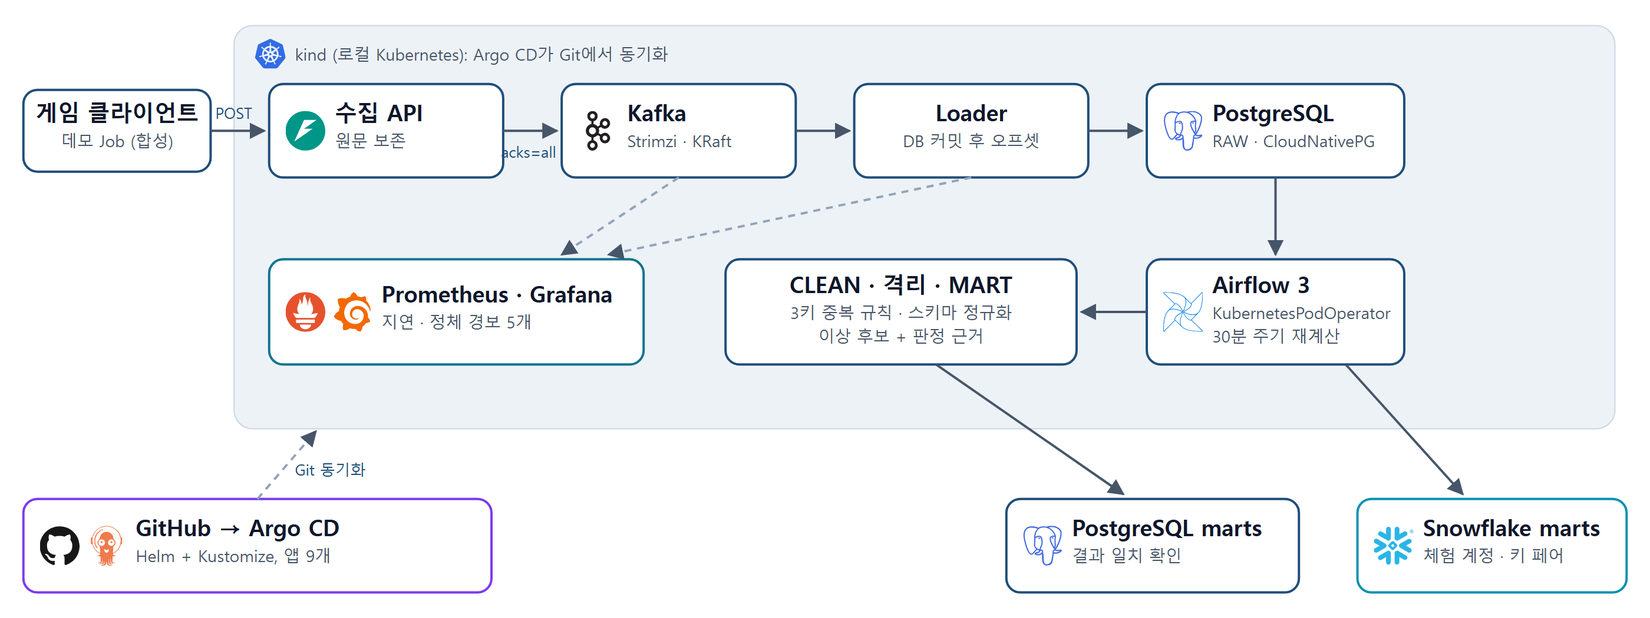
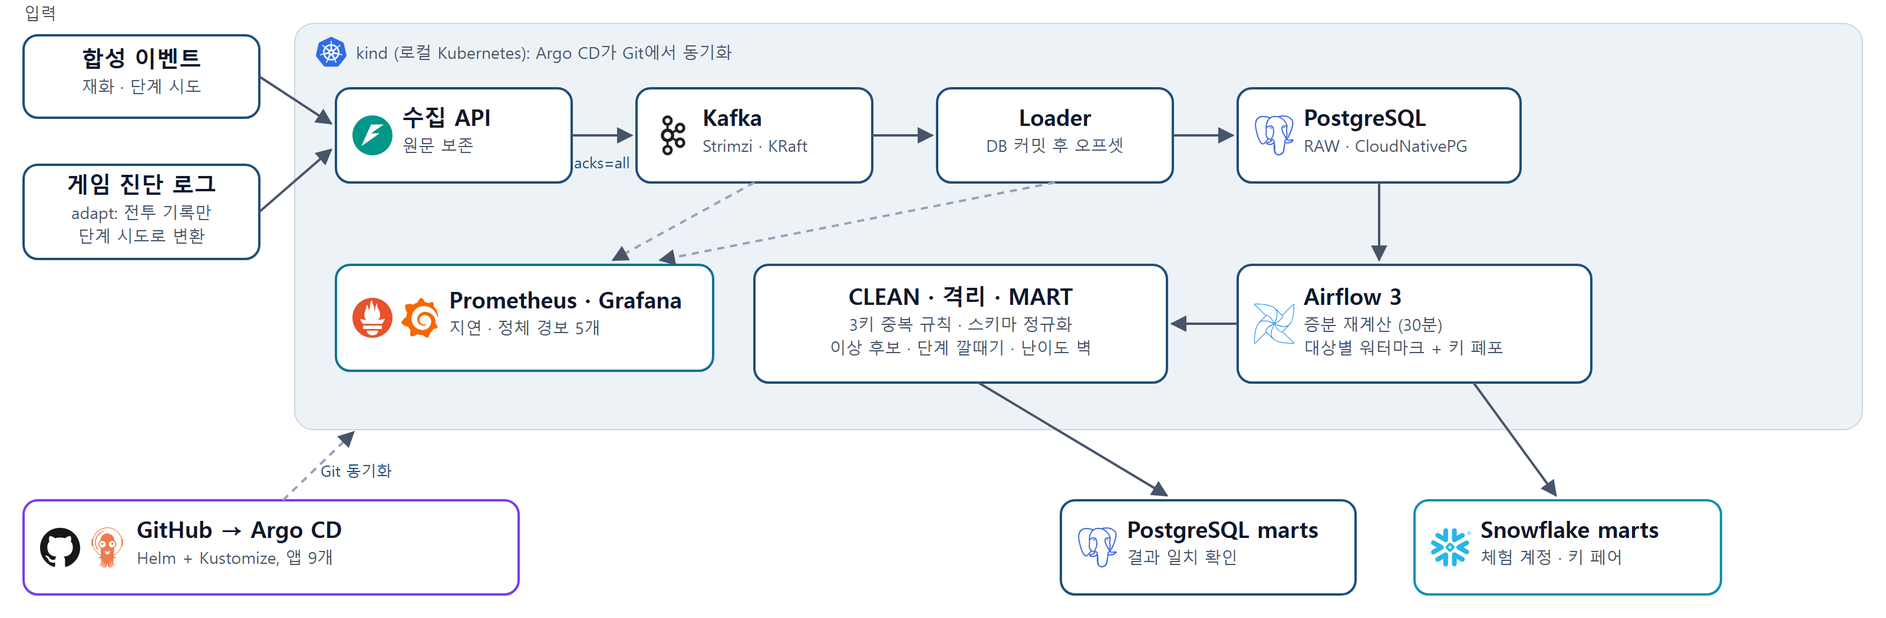
Polish docs wording, refresh README visuals and architecture diagram

diff --git a/docs/kubernetes.md b/docs/kubernetes.md
@@ -1,6 +1,6 @@
 # Kubernetes 배포 (v0.2.0)
 
-v0.1.0의 검증·중복 제거 규칙(`game_log_pipeline/pipeline.py`)은 그대로 두고, 앞뒤를 쿠버네티스 서비스로 감쌌습니다. 로컬 kind 클러스터에서 end-to-end로 실행해 확인했고, EKS는 같은 차트·오버레이의 설정만 준비했습니다(생성하지 않음).
+v0.1.0의 검증·중복 제거 규칙(`game_log_pipeline/pipeline.py`)은 그대로 두고 앞뒤를 쿠버네티스 서비스로 감쌌습니다. 로컬 kind 클러스터에서 end-to-end로 실행해 확인했습니다. EKS는 같은 차트·오버레이의 설정만 준비했습니다(생성하지 않음).
 
 ## 구조
 
@@ -28,7 +28,7 @@ flowchart LR
 | 클러스터 | kind(로컬, WSL2) / EKS 설정만 | Kubernetes 1.37 |
 | 배포 | Argo CD app-of-apps, sync wave(-2 운영자 → -1 플랫폼 → 0 앱 → 1 Airflow) | Argo CD 3.5.3 (chart 10.9.2) |
 | 앱 | Helm 차트 `deploy/charts/game-log-pipeline` (values-local / values-eks) | 0.2.0 |
-| 플랫폼 CR | Kustomize base + overlays(local / eks) | — |
+| 플랫폼 CR | Kustomize base + overlays(local / eks) | - |
 | Kafka | Strimzi 운영자, KRaft, v1 API | Strimzi 1.2.0, Kafka 4.2.0 |
 | PostgreSQL | CloudNativePG 운영자 | 1.30.1 (chart 0.29.1) |
 | 오케스트레이션 | Airflow 공식 차트, LocalExecutor + KubernetesPodOperator, DAG는 git-sync | Airflow 3.2.2 (chart 1.22.0) |
@@ -63,13 +63,13 @@ bash infra/local/bootstrap.sh
 ## 확인한 결과(2026-09-28, kind)
 
 - 데모 트래픽 Job이 합성 fixture 10건 전송 → `{"accepted":10}` → loader `{"loaded": 10}` → rebuild `{"raw": 10, "clean": 6, "quarantine": 3}`.
-- PostgreSQL marts의 이상 후보: `offline_policy_exceeded:p_excess`, `duplicate_reward_claim:p_repeat` — v0.1.0 SQLite 기준 구현과 같다.
+- PostgreSQL marts의 이상 후보는 `offline_policy_exceeded:p_excess`, `duplicate_reward_claim:p_repeat`로 v0.1.0 SQLite 기준 구현과 같습니다.
 - 같은 묶음을 한 번 더 보내면 RAW 20, CLEAN 6, 이상 후보 2 유지(격리는 수신 단위라 3→6).
 - eks 오버레이와 values-eks 렌더링은 서버 dry-run 통과.
-- GitOps 전체 재구성(클러스터 삭제 → `bootstrap.sh`): Argo CD 앱 7개(root, strimzi, cloudnative-pg, kafka, postgres, game-log-pipeline, airflow)가 모두 Synced/Healthy. 데모 트래픽 → loader → PostgreSQL 결과는 위와 같다.
-- Airflow `glp_rebuild` DAG: 예약 실행과 수동 실행 모두 success. KubernetesPodOperator가 `rebuild_marts` 파드를 띄워 재계산한다.
+- GitOps 전체 재구성(클러스터 삭제 → `bootstrap.sh`): Argo CD 앱 7개(root, strimzi, cloudnative-pg, kafka, postgres, game-log-pipeline, airflow)가 모두 Synced/Healthy. 데모 트래픽 → loader → PostgreSQL 결과는 위와 같습니다.
+- Airflow `glp_rebuild` DAG: 예약 실행과 수동 실행 모두 success. KubernetesPodOperator가 `rebuild_marts` 파드를 띄워 재계산합니다.
 - 0.3.0 모니터링(2026-09-29, kind): Argo CD 앱 9개(monitoring, monitoring-config 추가) 모두 Synced/Healthy. Prometheus 대상 `glp-ingest`·`glp-loader`·`glp-kafka-exporter` 모두 up. 데모 묶음 전송 뒤 `glp_ingest_events_total{result="accepted"}`와 `glp_loader_rows_total`이 같은 값(20)으로 증가, `kafka_consumergroup_lag` 파티션 0~2 모두 0. 경보 5개 로드(inactive), 대시보드 ConfigMap 적용. Airflow OutOfSync 해소.
-- 시작 순서: loader가 PostgreSQL보다 먼저 뜨면 연결 거부로 재시작하고 DB가 준비되면 복구된다(재시작 정책에 맡김).
+- 시작 순서: loader가 PostgreSQL보다 먼저 뜨면 연결 거부로 재시작하고 DB가 준비되면 복구됩니다(재시작 정책에 맡김).
 
 ## 로컬 환경 문제와 해결
 
@@ -89,20 +89,20 @@ bash infra/local/bootstrap.sh
 | `kafka_consumergroup_lag` | Strimzi Kafka Exporter | `glp-loader` 그룹의 파티션별 지연 |
 | `kube_pod_status_phase` | kube-state-metrics | Airflow가 띄운 `glp-rebuild` 파드 실패 |
 
-경보(`deploy/platform/monitoring/base/rules.yaml`): 지연 100건 초과 5분, 지연이 있는데 10분간 커밋 없음(로더 정체), 로더 대상 없음, Kafka 미확인 전송, 재계산 파드 실패. 임계치는 데모 값이다. 스크레이프 대상(PodMonitor)·경보·대시보드가 모두 Git에 있고 Argo CD가 동기화한다.
+경보(`deploy/platform/monitoring/base/rules.yaml`): 지연 100건 초과 5분, 지연이 있는데 10분간 커밋 없음(로더 정체), 로더 대상 없음, Kafka 미확인 전송, 재계산 파드 실패. 임계치는 데모 값입니다. 스크레이프 대상(PodMonitor)·경보·대시보드가 모두 Git에 있고 Argo CD가 동기화합니다.
 
 ## 스키마 진화 (0.3.0)
 
-생산자(게임 클라이언트)는 한꺼번에 업그레이드되지 않으므로 여러 스키마 버전이 동시에 들어온다. 재계산은 각 버전을 v1 업무 형태로 정규화한 뒤 같은 규칙을 적용한다. 지원하지 않는 버전과 계약 위반은 사유를 남겨 격리하고, 같은 이벤트가 다른 버전으로 재전송되면 충돌로 보지 않는다. 버전 분포는 보고서의 `schema_versions`로 확인한다.
+생산자(게임 클라이언트)는 한꺼번에 업그레이드되지 않으므로 여러 스키마 버전이 동시에 들어옵니다. 재계산은 각 버전을 v1 업무 형태로 정규화한 뒤 같은 규칙을 적용합니다. 지원하지 않는 버전과 계약 위반은 사유를 남겨 격리합니다. 같은 이벤트가 다른 버전으로 재전송되면 충돌로 보지 않습니다. 버전 분포는 보고서의 `schema_versions`로 확인합니다.
 
 ## 증분 재계산 (0.4.0)
 
-1. 로더가 RAW를 저장할 때 `event_key`·`txn_key`를 함께 기록한다.
-2. 재계산은 대상마다 `pipeline_state.raw_watermark` 이후 RAW만 읽는다.
-3. 새 행과 같은 event_id의 모든 전송, 같은 거래 키의 모든 이벤트를 더 늘어나지 않을 때까지 모은다(폐포).
-4. 그 범위만 기존 규칙으로 계산해 해당 이벤트·전송 행을 교체하고 워터마크를 옮긴다(한 트랜잭션).
+1. 로더가 RAW를 저장할 때 `event_key`·`txn_key`를 함께 기록합니다.
+2. 재계산은 대상마다 `pipeline_state.raw_watermark` 이후 RAW만 읽습니다.
+3. 새 행과 event_id가 같은 모든 전송, 거래 키가 같은 모든 이벤트를 더 늘어나지 않을 때까지 모읍니다(폐포).
+4. 그 범위만 기존 규칙으로 계산해 해당 이벤트·전송 행을 교체하고 워터마크를 옮깁니다(한 트랜잭션).
 
-워터마크가 없는 대상은 전체 재계산으로 시작한다.
+워터마크가 없는 대상은 전체 재계산으로 시작합니다.
 
 확인(2026-09-29, kind + Snowflake 체험 계정, Airflow `glp_rebuild`):
 
@@ -112,23 +112,23 @@ bash infra/local/bootstrap.sh
 | 2. 같은 fixture 재전송 10건 뒤 | incremental, 새 RAW 10 → 재계산 50(모두 같은 키), clean 6, 격리 15 | 같음 |
 | 3. 새 이벤트 1건 뒤 | incremental, 새 RAW 1 → 재계산 1, clean 7 | 같음 |
 
-재전송은 기존 전송과 키가 같아 폐포가 커지고, 새 이벤트는 그 한 행만 다시 계산한다. 규칙을 바꾼 뒤에는 Airflow에서 conf `{"mode": "full"}`로 실행한다.
+재전송은 기존 전송과 키가 같아서 폐포가 커집니다. 새 이벤트는 그 한 행만 다시 계산합니다. 규칙을 바꾼 뒤에는 Airflow에서 conf `{"mode": "full"}`로 실행합니다.
 
 ## 단계 시도 입력 (0.5.0)
 
-게임이 커지면 재화 외에 진행 로그가 필요합니다. `stage_attempt`는 같은 토픽·RAW 테이블로 들어오고, 재계산에서 이벤트 유형별로 나뉩니다.
+게임이 커지면 재화 외에 진행 로그가 필요합니다. `stage_attempt`는 같은 토픽·RAW 테이블로 들어오고 재계산에서 이벤트 유형별로 나뉩니다.
 
 - 계약: `track`(story/endless), `stage`(1~10000), `outcome`(clear/fail), `duration_ms`. 허용 필드 밖의 값, 범위 밖 단계, 같은 event_id의 다른 내용은 격리합니다.
 - `stage_funnel`: 트랙·단계별 도전 이용자, 통과 이용자, 시도, 통과.
 - `difficulty_walls`: 3번 이상 실패했고 아직 통과하지 못한 이용자가 2명 이상인 단계. 합성 데이터에서는 무한 도전 8단계(막힌 3명, 실패 10회).
 - 증분: 시도는 거래 키가 없어 event_id 폐포만으로 닫힙니다.
 
-확인(2026-09-29, kind + Snowflake 체험 계정): Argo CD가 0.5.0으로 동기화한 뒤 데모 트래픽 Job이 재화 fixture와 시도 46건을 보냈고, 로더가 56행을 적재했습니다. Airflow `glp_rebuild`(증분)로 두 대상 모두 워터마크 107, `clean_attempts` 42, `difficulty_walls` = 무한 도전 8단계(막힌 3명, 실패 10회), `stage_funnel` 8단계 도전 4명·통과 1명·시도 13회로 같았습니다. 기존 테이블에 새 테이블·뷰를 더하는 변경이라 전체 재계산 없이 증분으로 반영됐습니다.
+확인(2026-09-29, kind + Snowflake 체험 계정): Argo CD가 0.5.0으로 동기화한 뒤 데모 트래픽 Job이 재화 fixture와 시도 46건을 보냈고 로더가 56행을 적재했습니다. Airflow `glp_rebuild`(증분)로 두 대상 모두 워터마크 107, `clean_attempts` 42, `difficulty_walls` = 무한 도전 8단계(막힌 3명, 실패 10회), `stage_funnel` 8단계 도전 4명·통과 1명·시도 13회로 같았습니다. 기존 테이블에 새 테이블·뷰를 더하는 변경이라 전체 재계산 없이 증분으로 반영됐습니다.
 
 ## 한계
 
 - 증분 워터마크는 단일 로더의 커밋 순서에 기댑니다. 병렬 적재에는 커밋 순서 로그나 안전 지연이 필요합니다.
 - 로컬은 브로커·DB 모두 단일 인스턴스입니다. 복제·장애 조치는 eks 오버레이에서 설정만 했습니다.
-- Snowflake 적재 경로는 코드와 설정이 있으나, 자격 증명이 없어 이번 실행에서는 PostgreSQL marts만 확인했습니다.
+- 2026-09-28 첫 실행은 Snowflake 자격 증명 없이 PostgreSQL marts만 확인했습니다. Snowflake는 0.4.0부터 체험 계정에서 같은 결과를 확인했습니다.
 - 인증·TLS가 없는 로컬 데모입니다. 실제 수집 API는 인증과 요청 제한이 필요합니다.
 - ingress-nginx가 2026년 3월 지원 종료되어 로컬에서는 NodePort를 씁니다. EKS에서는 AWS Load Balancer Controller를 가정합니다.

diff --git a/CHANGELOG.md b/CHANGELOG.md
@@ -2,35 +2,35 @@
 
 ## Unreleased
 
-- 게임 진단 로그 어댑터(`game_log_pipeline/device.py`, CLI `adapt`): 게임이 내보내는 진단 JSONL(스키마 1~3)의 `battle_result`를 `stage_attempt`로 변환. 탑 층은 무한 도전 트랙, 스토리 단계는 1부터, `duration_ms = ticks × 100`. `event_id`를 유지해 겹치는 재내보내기는 재전송으로 처리.
+- 게임 진단 로그 어댑터(`game_log_pipeline/device.py`, CLI `adapt`): 게임이 내보내는 진단 JSONL(스키마 1~3)의 `battle_result`를 `stage_attempt`로 변환. 탑 층은 무한 도전 트랙, 스토리 단계는 1부터, `duration_ms = ticks × 100`. `event_id`를 유지하므로 겹쳐서 다시 내보낸 기록은 재전송으로 처리.
 - 제외 규칙: 개발 보조(`assisted`·`session_assisted`) 기록, 전투 외 기록(서버 거래 ID가 없는 재화 기록 포함), 깨진 JSON·계약 위반을 사유별로 집계.
 - 검증 경계: `device_diagnostic` 출처는 `stage_attempt`에만 허용하고 재화 이벤트로 들어오면 격리.
 - 형식만 같은 합성 샘플 `examples/device_diagnostic_sample.jsonl`, 검사 34개 → 38개.
 - 문서: README 실행 화면(구조도, Argo CD, Airflow, Grafana, Snowflake), [트러블슈팅](docs/troubleshooting.md), [게임 로그 연결](docs/device-logs.md).
 
-## 0.5.0 — 2026-09-29
+## 0.5.0 - 2026-09-29
 
-- 두 번째 입력 `stage_attempt`: 스토리·무한 도전 트랙의 단계 시도 한 건(트랙, 단계, 성공/실패, 소요 시간). 재화 이벤트와 같은 RAW·Kafka·재계산 경로를 타고, 같은 규칙(허용 필드 목록, event_id 충돌 격리, 스키마 v1~v3 정규화)을 따른다. 재화 거래 집계에는 섞이지 않는다.
-- marts: `clean_attempts` 테이블, `stage_funnel`(단계별 도전 이용자·통과 이용자·시도·통과 수), `difficulty_walls`(3번 이상 실패하고 아직 못 넘은 이용자가 2명 이상인 단계). 밸런스를 고쳐야 할 구간을 찾는 신호이며 이용자 판정이 아니다. PostgreSQL·Snowflake·SQLite가 같은 SQL.
-- 증분 재계산: 시도 이벤트는 event_id로만 충돌하므로 거래 키 없이 event 키 폐포로 닫힌다. 무작위 순서 대조 검사에 시도 이벤트를 포함.
-- 합성 데이터: 4명이 무한 도전 8단계에서 막히고 1명만 두 번 실패 뒤 통과하는 벽, 재전송·충돌·범위 밖 단계. 검사 29개 → 34개.
+- 두 번째 입력 `stage_attempt`: 스토리·무한 도전 트랙의 단계 시도 한 건(트랙, 단계, 성공/실패, 소요 시간). 재화 이벤트와 같은 RAW·Kafka·재계산 경로를 타고 같은 규칙(허용 필드 목록, event_id 충돌 격리, 스키마 v1~v3 정규화)을 따른다. 재화 거래 집계에는 섞이지 않는다.
+- marts: `clean_attempts` 테이블, `stage_funnel`(단계별 도전 이용자·통과 이용자·시도·통과 수), `difficulty_walls`(3번 이상 실패하고 아직 못 넘은 이용자가 2명 이상인 단계). 밸런스를 고칠 구간을 찾는 신호이지 이용자 판정이 아니다. PostgreSQL·Snowflake·SQLite에서 같은 SQL을 쓴다.
+- 증분 재계산: 시도 이벤트는 event_id로만 충돌하므로 거래 키 없이 event 키 폐포로 닫힌다. 무작위 순서 대조 검사에도 시도 이벤트를 포함.
+- 합성 데이터: 무한 도전 8단계의 벽(4명이 막히고 1명만 두 번 실패 뒤 통과), 재전송·충돌·범위 밖 단계. 검사 29개 → 34개.
 - 이미지·차트 0.5.0.
 
-## 0.4.0 — 2026-09-29
+## 0.4.0 - 2026-09-29
 
-- 증분 재계산: 대상(PostgreSQL·Snowflake)마다 RAW 워터마크(`pipeline_state`)를 두고, 워터마크 이후 RAW만 읽는다. 영향 범위는 시간이 아니라 **키**로 정한다. 새 RAW와 같은 `event_id`의 모든 전송, 같은 이용자·통화·거래 ID의 모든 이벤트로 닫힐 때까지 넓힌 뒤 기존 규칙으로 그 범위만 다시 계산해 한 트랜잭션으로 교체한다. 지연 도착은 새 RAW일 뿐이라 별도 처리가 필요 없다(일별 집계는 뷰).
+- 증분 재계산: 대상(PostgreSQL·Snowflake)마다 RAW 워터마크(`pipeline_state`)를 두고 워터마크 이후 RAW만 읽는다. 영향 범위는 시간이 아니라 **키**로 정한다. 새 RAW와 같은 `event_id`의 모든 전송, 같은 이용자·통화·거래 ID의 모든 이벤트로 닫힐 때까지 범위를 넓힌다. 그 뒤 기존 규칙으로 그 범위만 다시 계산해 한 트랜잭션으로 교체한다. 지연 도착은 새 RAW일 뿐이라 별도 처리가 필요 없다(일별 집계는 뷰).
 - 정확성: 무작위 도착 순서·재전송·늦게 온 충돌·거래 충돌·스키마 v3 재전송·잘못된 JSON을 섞은 40가지 순서에서, 묶음마다 증분 결과가 전체 재계산과 같은지 대조. 영향 범위 확장을 끄면 이 검사가 실패함을 확인(변이 검사). 검사 25개 → 29개.
-- 적재: 로더가 RAW 저장 시 `event_key`·`txn_key`를 함께 기록(인덱스). 이전 행은 첫 재계산에서 한 번 채운다(`keyed`).
+- 적재: 로더가 RAW를 저장할 때 `event_key`·`txn_key`를 함께 기록(인덱스). 이전 행은 첫 재계산에서 한 번 채운다(`keyed`).
 - 실행 방식: 기본 증분, 워터마크가 없는 대상은 전체. Airflow는 `{"mode": "full"}` conf로 전체 재처리(규칙 변경 후 backfill). CLI `rebuild --mode incremental|full`.
 - 한계: 워터마크는 RAW id가 id 순서로 보인다는 가정(한 번에 한 묶음씩 커밋하는 단일 로더)에 기댄다. 병렬 적재에는 커밋 순서 로그나 안전 지연이 필요하다.
 
-## 0.3.0 — 2026-09-29
+## 0.3.0 - 2026-09-29
 
 - 스키마 진화: 생산자가 점진적으로 업그레이드되는 상황을 합성 이벤트로 재현. `schema_version` 1~3을 모두 받아 v1 업무 형태로 정규화(upcasting)한다. v2는 `client_version`(필수, 계보용), v3는 `currency`→`currency_code` 이름 변경. 지원하지 않는 버전·계약 위반은 사유와 함께 격리. 업그레이드된 클라이언트가 같은 이벤트를 새 버전으로 다시 보내면 충돌이 아니라 재전송으로 처리. 보고서에 수신 버전 분포(`schema_versions`). 검사 19개 → 23개.
 - 모니터링: kube-prometheus-stack(Prometheus·Alertmanager·Grafana)을 Argo CD 앱으로 추가. 수집 API `/metrics`(`glp_ingest_events_total{result}`), 로더 지표(`glp_loader_rows_total`, `glp_loader_last_commit_unixtime`), Strimzi Kafka Exporter의 컨슈머 지연(`kafka_consumergroup_lag`). 경보 5개(지연 과다, 로더 정체, 로더 없음, 미확인 전송, 재계산 파드 실패)와 Grafana 대시보드를 Git에서 관리.
 - Airflow 차트의 `create-user`/`migrate` Job을 Argo CD Sync 훅으로 실행. 차트 TTL이 완료 Job을 지우면서 앱이 OutOfSync로 보이던 문제 해결.
 - 이미지·차트 0.3.0. kind 설정에 Grafana NodePort 30083.
-- Snowflake 체험 계정에서 Airflow 재계산으로 marts 적재 실행, PostgreSQL과 결과 일치(clean 6, 격리 9, 이상 후보 2).
+- Snowflake 체험 계정에서 Airflow 재계산으로 marts 적재 실행. 결과는 PostgreSQL과 일치(clean 6, 격리 9, 이상 후보 2).
 - Snowflake 키 페어 인증(PEM `private_key`, 없으면 password). 체험 계정용 `infra/snowflake/setup.sql`(전용 역할·XSMALL 자동정지 창고·서비스 사용자·월 1크레딧 리소스 모니터)과 Secret 생성 스크립트, [실행 절차](docs/snowflake.md).
 
 ## Unreleased (0.2.x 운영 수정)
@@ -38,7 +38,7 @@
 - 로컬 GitOps 수정: 파드 DNS가 호스트 search 도메인 때문에 외부 이름을 잘못 해석하던 문제(kubelet `resolvConf`), kind 네트워크 MTU를 호스트에 맞춤, strimzi 앱 `ServerSideDiff`로 CRD OutOfSync 반복 제거.
 - 클러스터 재구성부터 Argo CD 7개 앱 Synced/Healthy, Airflow `glp_rebuild` DAG 성공까지 확인. [docs/kubernetes.md](docs/kubernetes.md).
 
-## 0.2.0 — 2026-09-28
+## 0.2.0 - 2026-09-28
 
 - FastAPI 수집 API(원문 보존, 요청 크기 제한, idempotent producer), Kafka loader(DB 커밋 후 오프셋 커밋, `(topic, partition, offset)` 고유 키), 재계산 작업(PostgreSQL landing → PostgreSQL/Snowflake marts). v0.1.0 규칙은 변경 없음.
 - 하나의 컨테이너 이미지(api / load / rebuild / send), 비루트·읽기 전용 루트 파일시스템.
@@ -48,10 +48,10 @@
 - kind에서 end-to-end 확인: 10건 수신 → CLEAN 6 / 격리 3 / 이상 후보 2, 같은 묶음 재전송 시 업무 결과 불변.
 - 검사 12개 → 19개.
 
-## 0.1.0 — 2026-09-25
+## 0.1.0 - 2026-09-25
 
 - 독립 합성 이벤트 fixture와 로컬 RAW/CLEAN/격리 구조.
 - 이벤트/거래 중복과 보상 중복 지급 후보 분리.
 - 공개 정책 상한, UTC 집계, 지연 도착 전체 재계산.
 - 재시도·충돌·실패 롤백 검사, CLI와 CI 정의.
-- Kafka/Snowflake/Airflow/API/Kubernetes 미구현; README 후속 범위 참조.
+- Kafka/Snowflake/Airflow/API/Kubernetes 미구현. README 후속 범위 참조.

diff --git a/README.md b/README.md
@@ -1,10 +1,12 @@
 # game-log-pipeline
 
+![game-log-pipeline: 다시 보내도, 다시 돌려도 결과가 같은 게임 로그 파이프라인](docs/images/social-preview.png)
+
 방치형 게임의 **정상 오프라인 보상**, **로그 전송 중복**, **실제 중복 지급 의심**을 구분하는 데이터 엔지니어링 포트폴리오입니다.
 
-**v0.2.0**은 v0.1.0의 Python + SQLite 기준 규칙을 그대로 두고, **Kubernetes 위에서 FastAPI 수집 API → Kafka(Strimzi) → PostgreSQL(CloudNativePG) → Airflow(KubernetesPodOperator) 재계산**으로 확장했습니다. 배포는 **Helm 차트 + Kustomize 오버레이를 Argo CD(app-of-apps)가 Git에서 동기화**합니다. 로컬 kind 클러스터에서 end-to-end로 확인했습니다. Snowflake 적재는 체험 계정에서 실행해 PostgreSQL과 같은 결과를 확인했고, EKS는 설정까지 준비했습니다. → [Kubernetes 배포 문서](docs/kubernetes.md)
+**v0.2.0**은 v0.1.0의 Python + SQLite 기준 규칙을 그대로 두고 **Kubernetes 위에서 FastAPI 수집 API → Kafka(Strimzi) → PostgreSQL(CloudNativePG) → Airflow(KubernetesPodOperator) 재계산**으로 확장했습니다. 배포는 **Helm 차트 + Kustomize 오버레이를 Argo CD(app-of-apps)가 Git에서 동기화**합니다. 로컬 kind 클러스터에서 end-to-end로 확인했습니다. Snowflake 적재는 체험 계정에서 실행해 PostgreSQL과 같은 결과를 확인했고 EKS는 설정까지 준비했습니다. → [Kubernetes 배포 문서](docs/kubernetes.md)
 
-**게임 진단 로그 연결(Unreleased)**: 개발 중인 게임이 내보내는 진단 로그(JSONL)의 전투 기록을 `stage_attempt`로 바꾸는 어댑터입니다. 개발 보조를 쓴 판과 전투 외 기록은 넣지 않고, 기기 출처는 단계 시도에만 허용합니다. → [게임 로그 연결](docs/device-logs.md)
+**게임 진단 로그 연결(Unreleased)**: 개발 중인 게임이 내보내는 진단 로그(JSONL)의 전투 기록을 `stage_attempt`로 바꾸는 어댑터입니다. 개발 보조를 쓴 판과 전투 외 기록은 넣지 않습니다. 기기 출처는 단계 시도에만 허용합니다. → [게임 로그 연결](docs/device-logs.md)
 
 **v0.5.0**은 두 번째 입력 **단계 시도(`stage_attempt`)**를 받아 단계별 통과 깔때기와 **난이도 벽**(여러 이용자가 반복 실패하고 못 넘은 단계)을 계산합니다. 재화 이벤트와 같은 수집·격리·증분 재계산 경로를 탑니다.
 
@@ -12,7 +14,7 @@
 
 **v0.3.0**은 운영 관점을 더했습니다. **스키마 진화**(생산자 버전 1~3을 함께 받아 정규화, 계약 위반 격리)와 **모니터링**(Prometheus·Grafana, Kafka 컨슈머 지연·로더 정체·재계산 실패 경보, 대시보드를 Git으로 관리)입니다.
 
-게임 소스나 아트, 실제 사용자 로그를 포함하지 않습니다. 모든 이벤트와 경제 수치는 독립적인 합성 데이터이고, 게임 로그 샘플도 형식만 같은 합성 데이터입니다.
+게임 소스나 아트, 실제 사용자 로그를 포함하지 않습니다. 모든 이벤트와 경제 수치는 독립적인 합성 데이터이고 게임 로그 샘플도 형식만 같은 합성 데이터입니다.
 
 ## 실행 화면
 
@@ -30,7 +32,7 @@
 
 ## 문제
 
-몇 시간 동안 쌓인 재화를 접속 직후 받는 정상 이용자는 단순한 분 단위 획득량 임계치를 넘을 수 있습니다. 전송 재시도는 매출/재화 집계를 부풀릴 수 있고, 이벤트 ID가 다르더라도 같은 보상이 두 번 지급될 수 있습니다.
+몇 시간 동안 쌓인 재화를 접속 직후 받는 정상 이용자는 단순한 분 단위 획득량 임계치를 넘을 수 있습니다. 전송 재시도는 매출/재화 집계를 부풀릴 수 있고 이벤트 ID가 다르더라도 같은 보상이 두 번 지급될 수 있습니다.
 
 이 프로젝트는 세 가지 키를 구분합니다.
 
@@ -57,22 +59,33 @@ python -m game_log_pipeline adapt --input examples/device_diagnostic_sample.json
 python -m game_log_pipeline replay --input runs/device/attempts.jsonl --output runs/device
 ```
 
-`runs/demo/report.json`과 `pipeline.sqlite`를 확인합니다. 마지막 명령은 동일 원문을 다시 수신하는 시험입니다. RAW 건수는 증가하지만 업무 집계·이상 후보는 변하지 않아야 합니다.
+`runs/demo/report.json`과 `pipeline.sqlite`를 확인합니다. 마지막 명령은 같은 원문을 다시 받는 시험입니다. RAW 건수는 늘지만 업무 집계·이상 후보는 변하지 않아야 합니다.
 
-## 현재 구조
+## 처리 흐름
 
 ```mermaid
 flowchart LR
-  G[합성 이벤트 / JSONL] --> R[RAW: 모든 수신 기록]
-  R --> V[스키마·ID 충돌 검증]
-  V --> Q[격리: 원인 보존]
-  V --> C[CLEAN: 이벤트 중복 제거]
-  C --> T[거래 단위 중복 제거]
-  T --> M[SQL 집계 / 이상 후보]
-  M --> O[검사 결과 / JSON 보고서]
+  subgraph IN[입력]
+    S[합성 이벤트<br/>재화 · 단계 시도]
+    D[게임 진단 로그<br/>JSONL] -->|adapt| A[단계 시도]
+  end
+  S --> API[수집 API]
+  A --> API
+  API -->|acks=all| K[[Kafka]]
+  K --> L[Loader] -->|고유 키로 적재| R[(RAW<br/>원문 보존)]
+  R --> V{검증 · 스키마 정규화}
+  V -->|계약 위반 · ID 충돌| Q[격리<br/>원인 보존]
+  V --> E[CLEAN<br/>event_id 중복 제거]
+  E --> T[거래<br/>transaction_id 중복 제거]
+  T --> M[marts<br/>이상 후보 · 일별 재화]
+  E --> F[marts<br/>단계 깔때기 · 난이도 벽]
+  M --> W[(PostgreSQL · Snowflake)]
+  F --> W
 ```
 
-원문과 정제 결과를 분리하고 전체 재계산을 단일 트랜잭션으로 처리합니다. 순서 역전·지연 도착은 보존한 원문 전체를 재계산해 반영합니다. 이 방식은 소규모 정답 기준 구현이며, 대규모 증분 처리나 실시간 스트리밍이라고 부르지 않습니다.
+원문(RAW)과 정제 결과를 분리하고 재계산은 한 트랜잭션으로 교체합니다. 클러스터에서는 Airflow가 30분마다 대상별 워터마크 이후 RAW만 읽고 같은 이벤트·거래 키에 걸린 행까지 범위를 넓혀 **증분 재계산**합니다. 로컬 SQLite 기준 구현은 같은 규칙으로 전체를 재계산하며 증분 결과는 이 기준과 대조 검사합니다.
+
+![세 가지 키: 같은 로그가 세 겹으로 걸러집니다](docs/images/three-keys.png)
 
 ## 포함된 시나리오
 
@@ -96,7 +109,7 @@ flowchart LR
 ## 검증과 한계
 
 - 로컬 Python 3.11에서 단위/통합 검사 38개와 CLI 실행으로 확인합니다. 실제 실행 증거는 [검증 기록](docs/verification.md), 클러스터 실행 결과는 [Kubernetes 배포 문서](docs/kubernetes.md).
-- `schema.sql`은 SQLite 기준 구현용입니다. 웨어하우스용 `marts.sql`은 PostgreSQL과 Snowflake가 함께 받는 SQL이며, 두 곳 모두에서 실행해 같은 결과를 확인했습니다.
+- `schema.sql`은 SQLite 기준 구현용입니다. 웨어하우스용 `marts.sql`은 PostgreSQL과 Snowflake가 함께 받는 SQL이며 두 곳 모두에서 실행해 같은 결과를 확인했습니다.
 - 재화 이벤트는 합성 source만 받습니다. 단계 시도는 게임 진단 로그 어댑터의 출력(`device_diagnostic`)도 받습니다. 실제 개인정보와 실제 기기 로그를 저장소에 넣지 마세요. RAW에는 입력 원문이 남습니다.
 - 재화 획득 사건만 다루며 소비·환불·전체 원장 대사는 후속 범위입니다.
 - 기간·정책·플레이어 속성은 합성 데이터의 전제입니다. 실제 서비스는 신뢰할 수 있는 서버 원장과 대조해야 합니다.

diff --git a/docs/decisions.md b/docs/decisions.md
@@ -3,12 +3,12 @@
 - 목표: 작은 정답 데이터에서 중복 전송과 업무 중복의 차이를 재현한다.
 - RAW는 수신 단위, CLEAN은 event_id 단위, 거래는 player_id/currency/transaction_id 단위다.
 - 같은 ID에 상충하는 데이터는 임의의 최신값으로 덮어쓰지 않고 모두 격리한다.
-- reward_claim_id의 범위는 player_id/currency다. 다른 이용자가 같은 문자열을 사용했다고 중복 지급으로 보지 않는다.
+- reward_claim_id의 범위는 player_id/currency다. 다른 이용자가 같은 문자열을 썼다고 해서 중복 지급으로 보지 않는다.
 - UTC로 표준화하고 event_time으로 일별 집계한다. ingested_at은 수집기가 별도 기록한다.
-- 전체 원문 재계산은 정확성 기준이다. 웨어하우스 작업은 기본이 증분이며, 영향 범위를 시간 창이 아니라 event_id·거래 키의 폐포로 정해 어떤 지연 도착도 전체 재계산과 같은 결과를 낸다. 증분은 이 기준과 대조 검사로 묶어 둔다. 워터마크는 단일 로더의 커밋 순서를 가정한다.
+- 전체 원문 재계산은 정확성 기준이다. 웨어하우스 작업은 기본적으로 증분이다. 영향 범위를 시간 창이 아니라 event_id·거래 키의 폐포로 정하므로 지연 도착이 어떤 형태든 결과는 전체 재계산과 같다. 증분은 이 기준과 대조 검사로 묶어 둔다. 워터마크는 단일 로더의 커밋 순서를 가정한다.
 - 이상 후보는 자동 제재가 아니다. 공개 정책은 시간당 360 demo_coin, 산정 시간 최대 2시간인 독립 가상 수치다.
-- 바깥 입력 필드 allowlist를 엄격하게 적용한다. 검증 전 RAW에는 원문이 저장되므로 실제 비공개 데이터 투입을 막는 보안 장치로 과장하지 않는다.
+- 바깥 입력 필드에는 allowlist를 엄격하게 적용한다. 검증 전 RAW에는 원문이 저장되므로 이를 실제 비공개 데이터 투입을 막는 보안 장치로 과장하지 않는다.
 - Kafka exactly-once/커넥터 보장과 업무 단위 멱등성을 별도로 다룬다.
-- 스키마 진화는 수신 단계가 아니라 재계산 단계에서 처리한다. RAW는 원문 그대로 두고, 버전별 정규화(upcasting) 뒤 한 가지 규칙을 적용한다. 새 버전을 추가해도 과거 원문을 다시 재계산하면 같은 결과가 나온다.
+- 스키마 진화는 수신 단계가 아니라 재계산 단계에서 처리한다. RAW는 원문 그대로 두고 버전별 정규화(upcasting) 뒤 한 가지 규칙을 적용한다. 새 버전을 추가해도 과거 원문을 재계산하면 같은 결과가 나온다.
 - 모니터링 설정(스크레이프 대상·경보·대시보드)은 코드와 같은 저장소에서 GitOps로 관리한다. 임계치는 데모 값이다.
 - 게임 구현·캐릭터·경제·아트·저장·실제 로그는 이 저장소 밖에 둔다. 코드/아트에서 추출한 수치를 공개하지 않는다.

diff --git a/docs/verification.md b/docs/verification.md
@@ -1,4 +1,4 @@
-# 실행 검증 — v0.1.0
+# 실행 검증: v0.1.0
 
 2026-09-25 Windows / Python 3.11.9에서 실제 실행했습니다.
 
@@ -9,6 +9,6 @@
 - 전일 지연 이벤트 p_late: 2029-12-31에 18 반영.
 - 테스트는 입력 순서 역전, 이벤트/거래 충돌, 실패 시 롤백, 시간대/정책/금액 검증도 포함합니다.
 
-재현 명령은 README에 있습니다. 실행물과 원본 로그는 로컬 `runs/`에 저장하며 Git에서 제외합니다. GitHub Actions는 Python 3.11/3.12에서 동일 검사를 실행하도록 구성했습니다. 원격 실행 여부는 Actions 결과를 확인하세요.
+재현 명령은 README에 있습니다. 실행물과 원본 로그는 로컬 `runs/`에 저장하며 Git에서 제외합니다. GitHub Actions는 Python 3.11/3.12에서 동일 검사를 실행하도록 구성했습니다. 원격 실행 여부는 Actions 결과에서 확인하세요.
 
-이는 작은 합성 데이터의 정확성 검증입니다. 처리량 벤치마크, Kafka 전달 보장, Snowflake 실적재, Airflow backfill, 실제 사용자 이상행위 탐지 정확도를 검증한 결과가 아닙니다.
+위 결과는 작은 합성 데이터의 정확성 검증입니다. 처리량 벤치마크, Kafka 전달 보장, Snowflake 실적재, Airflow backfill, 실제 사용자 이상행위 탐지 정확도를 검증한 결과가 아닙니다.

diff --git a/docs/troubleshooting.md b/docs/troubleshooting.md
@@ -1,6 +1,6 @@
 # 트러블슈팅 기록
 
-로컬 kind 클러스터에서 GitOps 배포를 구성하며 만난 문제와 해결입니다. 설정 변경은 모두 Git에 반영해, 클러스터를 지우고 다시 만들어도 재발하지 않게 했습니다.
+로컬 kind 클러스터에서 GitOps 배포를 구성하며 만난 문제와 해결입니다. 설정 변경은 모두 Git에 반영해 클러스터를 지우고 다시 만들어도 재발하지 않게 했습니다.
 
 ## 파드에서만 GitHub에 접속되지 않는 문제
 
@@ -24,4 +24,4 @@
 | Airflow 앱이 계속 OutOfSync | 차트의 완료 Job을 TTL이 지우면서 Git과 달라짐 | 사용자 생성·마이그레이션 Job을 Argo CD Sync 훅으로 실행 |
 | VPN 사용 시 통신 불안정 | WSL MTU 1280, kind 네트워크 1500 | kind 네트워크를 호스트 MTU로 생성 |
 | ACCOUNTADMIN으로 Snowflake marts 조회 불가 | marts는 서비스 역할 `GLP_LOADER` 소유인데 상위 역할에 연결되지 않음 | `GRANT ROLE GLP_LOADER TO ROLE SYSADMIN` (Snowflake 권장 역할 계층) |
-| loader가 PostgreSQL보다 먼저 떠서 재시작 | 시작 순서 | 재시작 정책에 맡기고, DB 준비 후 자동 복구됨을 확인 |
+| loader가 PostgreSQL보다 먼저 떠서 재시작 | 시작 순서 | 재시작 정책에 맡기고 DB 준비 후 자동 복구됨을 확인 |

diff --git a/infra/eks/README.md b/infra/eks/README.md
@@ -1,6 +1,6 @@
 # EKS 설정 (생성하지 않음)
 
-같은 Helm 차트와 Kustomize 오버레이를 EKS에 올릴 때의 차이만 정리했습니다. 비용 때문에 이 포트폴리오에서는 클러스터를 만들지 않았고, `values-eks.yaml`과 `overlays/eks`는 로컬 클러스터에서 서버 dry-run으로 검증했습니다.
+같은 Helm 차트와 Kustomize 오버레이를 EKS에 올릴 때의 차이만 정리했습니다. 비용 때문에 이 포트폴리오에서는 클러스터를 만들지 않았습니다. `values-eks.yaml`과 `overlays/eks`는 로컬 클러스터에서 서버 dry-run으로 검증했습니다.
 
 | 영역 | 로컬(kind) | EKS |
 |---|---|---|
@@ -14,4 +14,4 @@
 | 비밀 값 | 운영자가 생성한 Secret 참조, Airflow 메타데이터는 bootstrap이 파생 | External Secrets Operator + AWS Secrets Manager, Pod 권한은 IRSA/Pod Identity |
 | Snowflake | 선택 | `glp-snowflake` Secret을 ESO로 동기화 |
 
-Argo CD 애플리케이션은 `path: .../overlays/eks`, `valueFiles: [values-eks.yaml]`로 바꾼 별도 app 세트를 두는 방식을 권장합니다(환경별 폴더).
+Argo CD 애플리케이션은 별도 app 세트를 두는 방식(환경별 폴더)을 권장합니다. 이 세트에서는 `path: .../overlays/eks`, `valueFiles: [values-eks.yaml]`로 바꿉니다.

diff --git a/docs/device-logs.md b/docs/device-logs.md
@@ -33,7 +33,7 @@ python -m game_log_pipeline replay --input runs/device/attempts.jsonl --output r
 | 전투 외 기록 (저장, 오프라인 정산, 등용 등) | 클라이언트 로그에는 서버 거래 ID와 보상 권리 ID가 없어 중복 지급 규칙에 쓰면 안 됨 |
 | 깨진 JSON, 계약 위반 | 사유별로 개수만 보고 |
 
-검증 단계도 같은 경계를 지킵니다. `device_diagnostic` 출처는 `stage_attempt`에만 허용되고, 재화 이벤트로 들어오면 격리됩니다.
+검증 단계도 같은 경계를 지킵니다. `device_diagnostic` 출처는 `stage_attempt`에만 허용되고 재화 이벤트로 들어오면 격리됩니다.
 
 ## 한계
 
